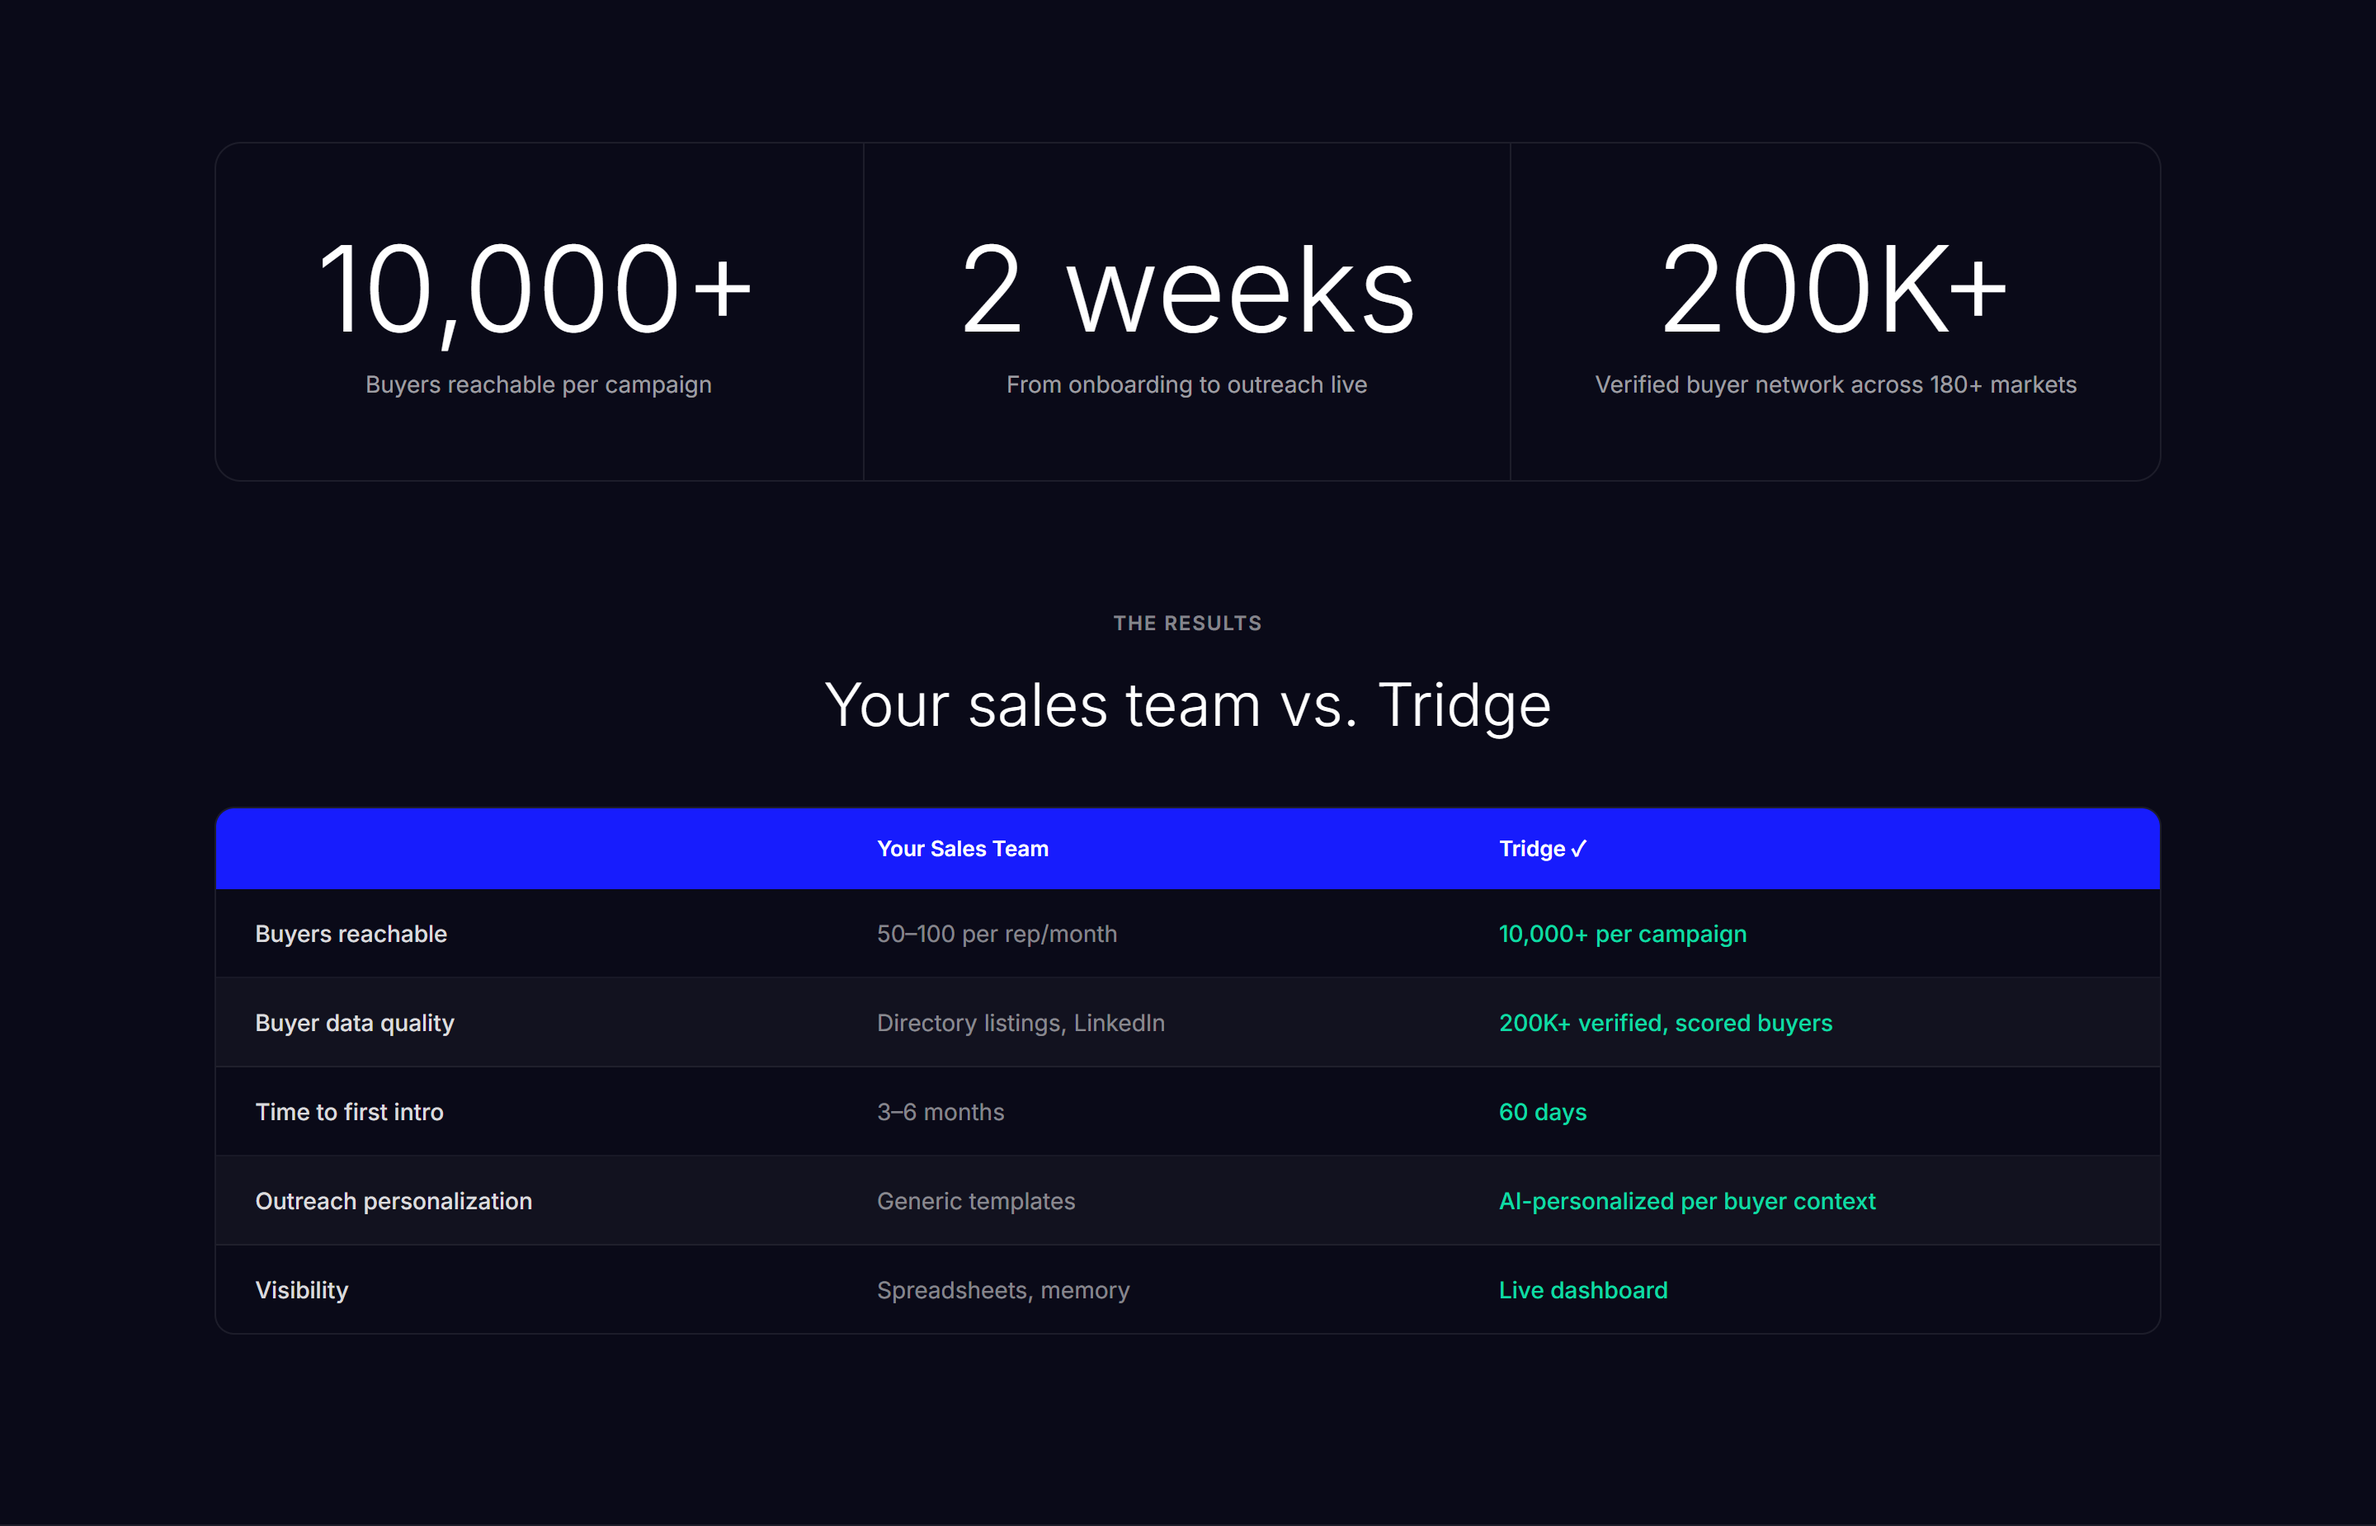
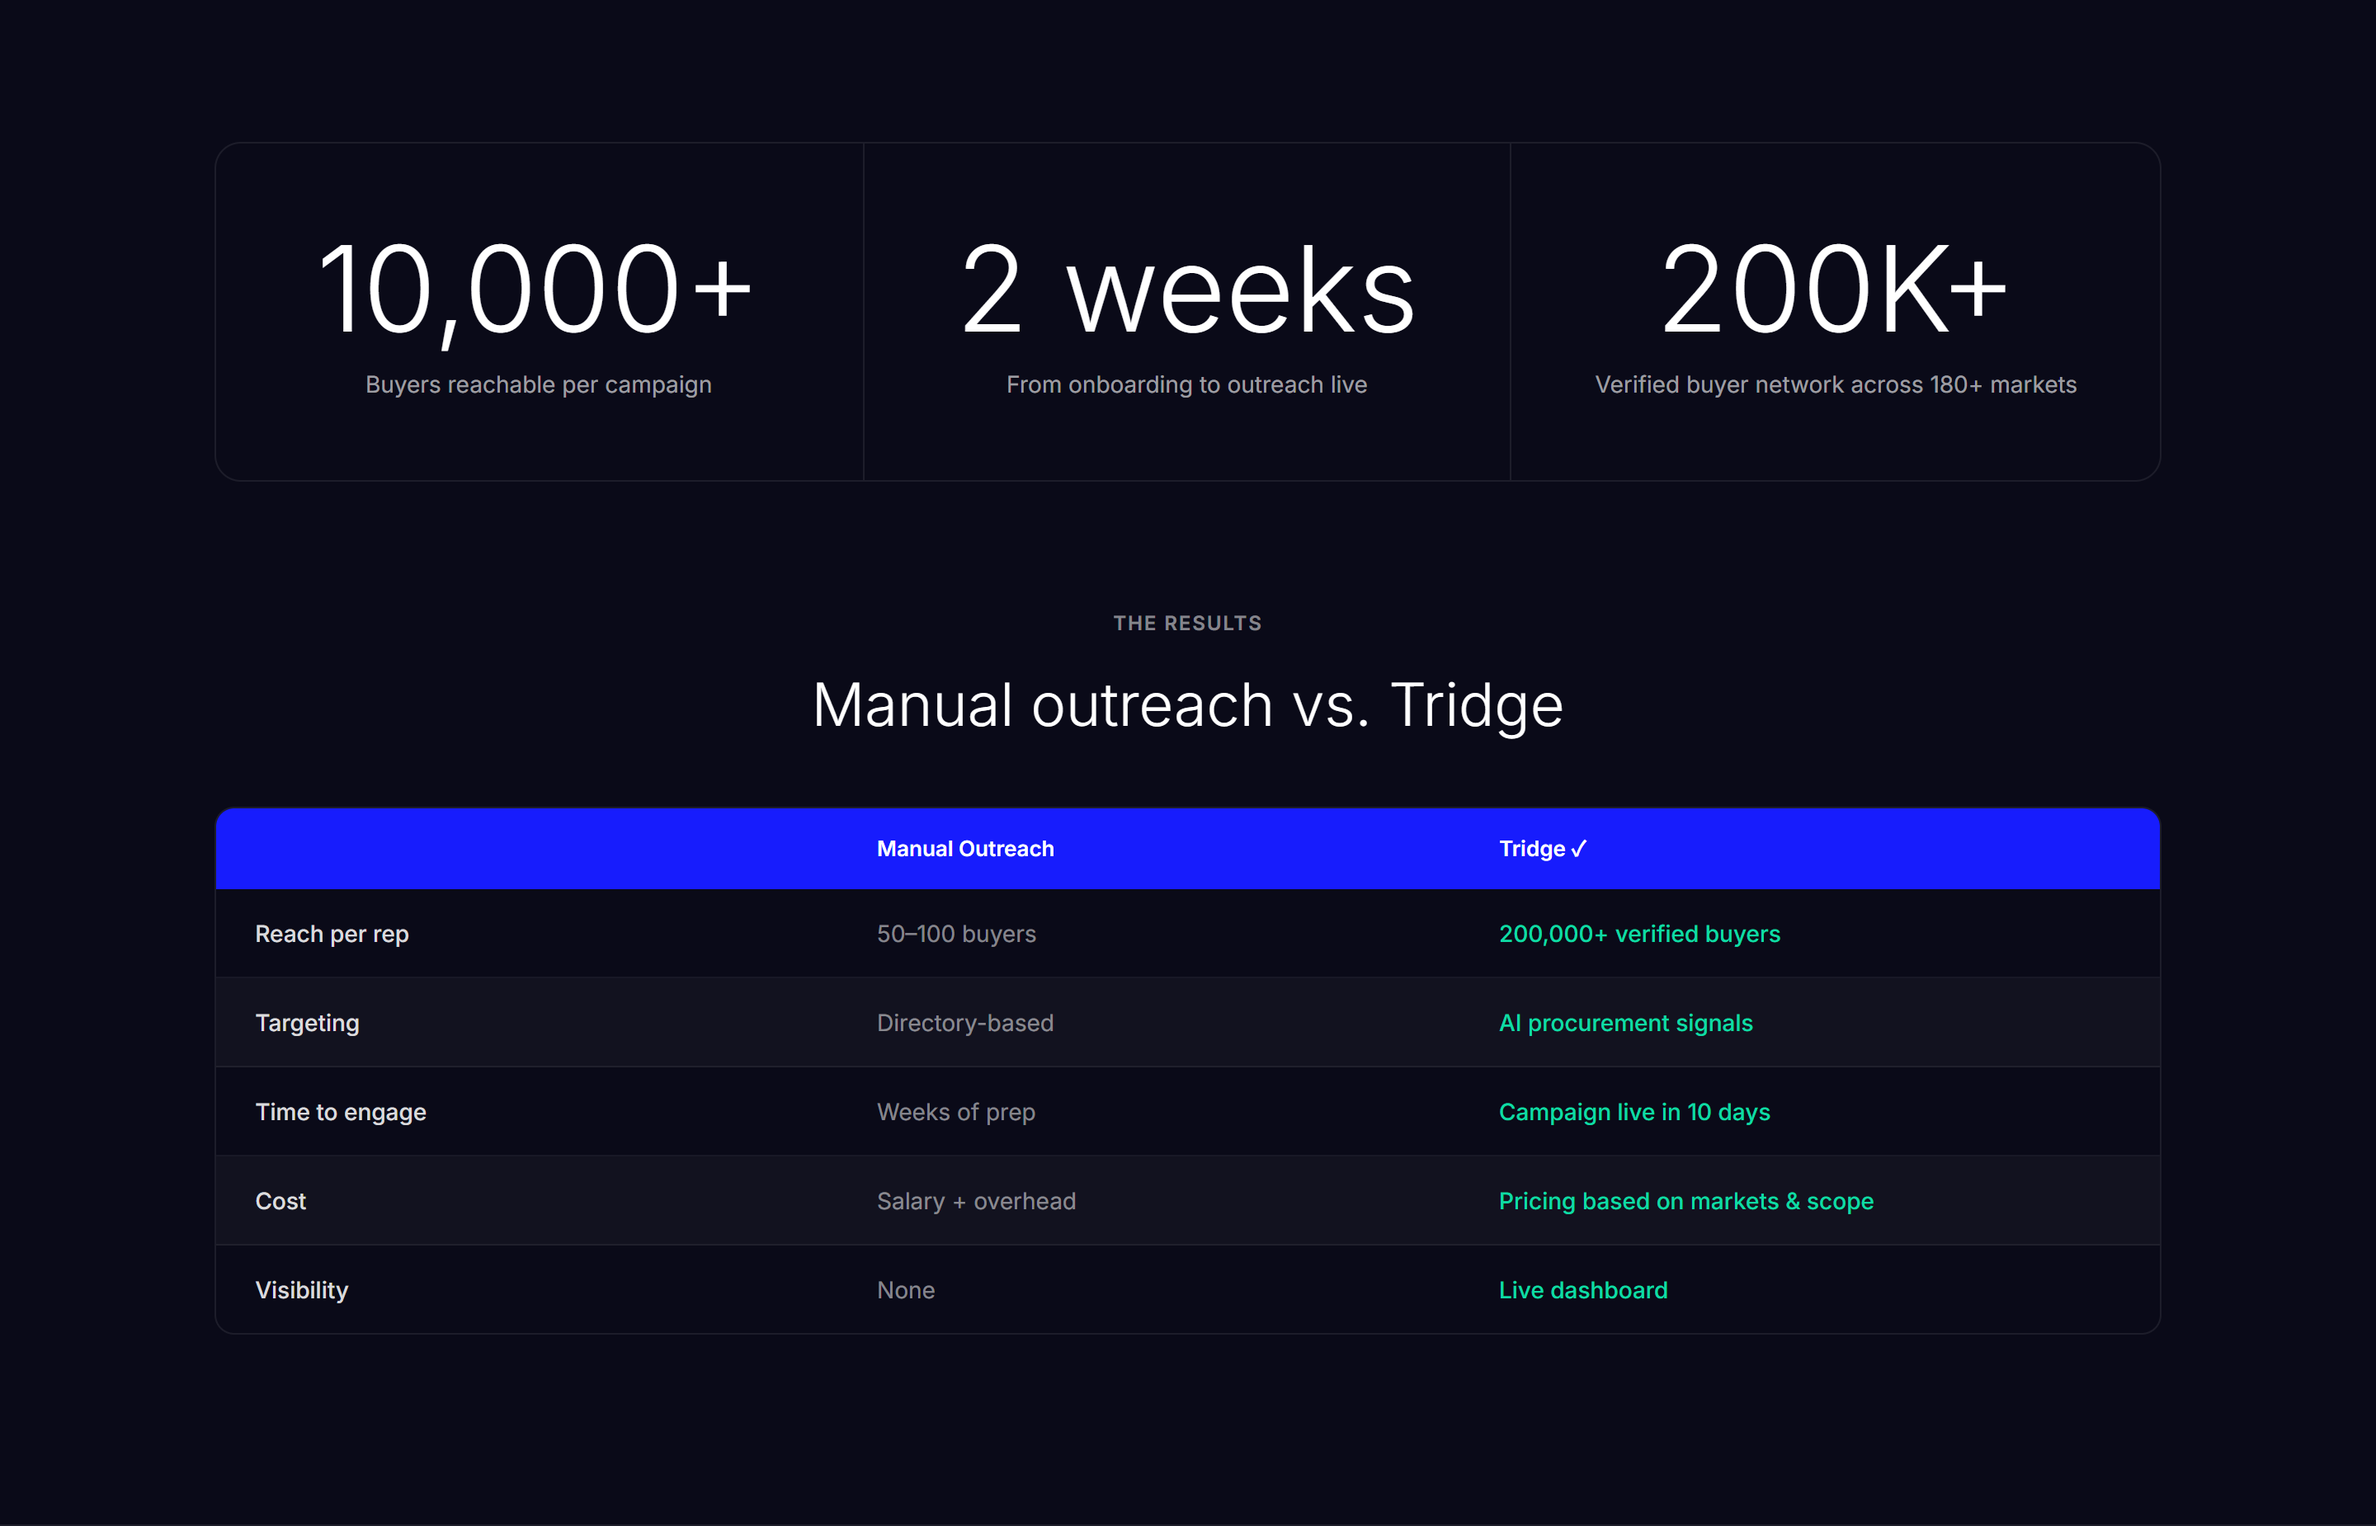
Fix comparison table copy in export-suppliers.html

diff --git a/export-suppliers.html b/export-suppliers.html
@@ -1559,38 +1559,38 @@
 
       <div class="proof-table-header">
         <div class="proof-table-label">The Results</div>
-        <h2 class="proof-table-headline">Your sales team vs. Tridge</h2>
+        <h2 class="proof-table-headline">Manual outreach vs. Tridge</h2>
       </div>
 
       <div class="compare-table">
         <div class="ctable-head">
           <div class="ctable-head-cell"></div>
-          <div class="ctable-head-cell">Your Sales Team</div>
+          <div class="ctable-head-cell">Manual Outreach</div>
           <div class="ctable-head-cell">Tridge &#10003;</div>
         </div>
         <div class="ctable-row">
-          <div class="ctable-cell row-label">Buyers reachable</div>
-          <div class="ctable-cell traditional">50–100 per rep/month</div>
-          <div class="ctable-cell tridge-col">10,000+ per campaign</div>
+          <div class="ctable-cell row-label">Reach per rep</div>
+          <div class="ctable-cell traditional">50–100 buyers</div>
+          <div class="ctable-cell tridge-col">200,000+ verified buyers</div>
         </div>
         <div class="ctable-row">
-          <div class="ctable-cell row-label">Buyer data quality</div>
-          <div class="ctable-cell traditional">Directory listings, LinkedIn</div>
-          <div class="ctable-cell tridge-col">200K+ verified, scored buyers</div>
+          <div class="ctable-cell row-label">Targeting</div>
+          <div class="ctable-cell traditional">Directory-based</div>
+          <div class="ctable-cell tridge-col">AI procurement signals</div>
         </div>
         <div class="ctable-row">
-          <div class="ctable-cell row-label">Time to first intro</div>
-          <div class="ctable-cell traditional">3–6 months</div>
-          <div class="ctable-cell tridge-col">60 days</div>
+          <div class="ctable-cell row-label">Time to engage</div>
+          <div class="ctable-cell traditional">Weeks of prep</div>
+          <div class="ctable-cell tridge-col">Campaign live in 10 days</div>
         </div>
         <div class="ctable-row">
-          <div class="ctable-cell row-label">Outreach personalization</div>
-          <div class="ctable-cell traditional">Generic templates</div>
-          <div class="ctable-cell tridge-col">AI-personalized per buyer context</div>
+          <div class="ctable-cell row-label">Cost</div>
+          <div class="ctable-cell traditional">Salary + overhead</div>
+          <div class="ctable-cell tridge-col">Pricing based on markets &amp; scope</div>
         </div>
         <div class="ctable-row">
           <div class="ctable-cell row-label">Visibility</div>
-          <div class="ctable-cell traditional">Spreadsheets, memory</div>
+          <div class="ctable-cell traditional">None</div>
           <div class="ctable-cell tridge-col">Live dashboard</div>
         </div>
       </div>
